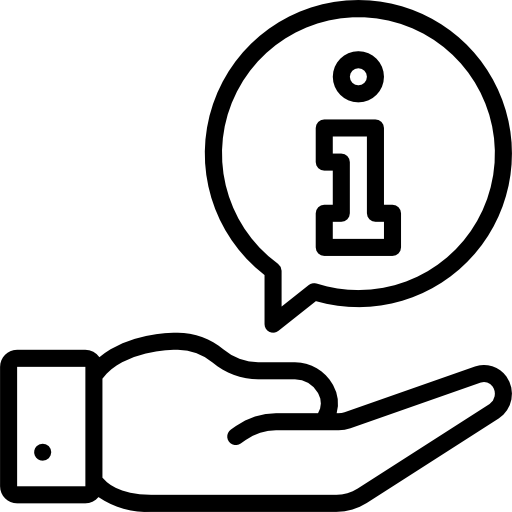
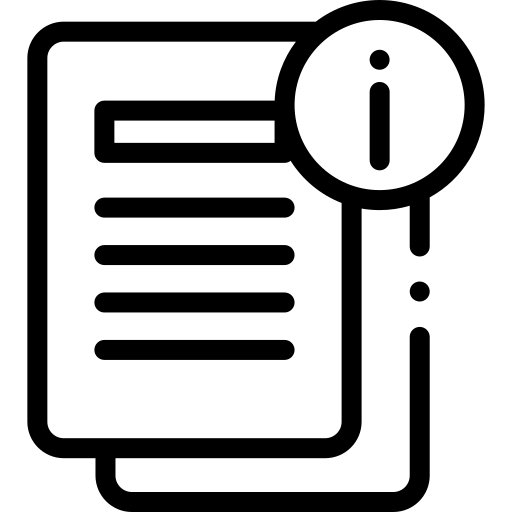
Added working client-user identifer

diff --git a/src/main/resources/templates/CLIENT-home.html b/src/main/resources/templates/CLIENT-home.html
@@ -25,8 +25,8 @@
             </div>
         </header>
         <div class="user-indicator-container">
-            <span class="user-indicator" th:text="'Welcome, ' + ${loggedInClient.name}"></span>
-        </div>
+            <span class="user-indicator" th:text="'Welcome, ' + ${loggedInClient.representativeName}"></span>
+        </div>        
         
         <div class="buttons-container">
             <a th:href="@{/CLIENT-guide}" class="overlap-3">

diff --git a/src/main/resources/static/css/CLIENT-home.css b/src/main/resources/static/css/CLIENT-home.css
@@ -21,7 +21,6 @@
   width: 100%;
   height: 150px;
   background-color: transparent;
-  box-shadow: 0px 5px 70px #0000004c;
 }
 
 .CLIENT-HOME .overlap-group {
@@ -206,6 +205,7 @@
   display: flex; 
   justify-content: flex-start; 
   align-items: center;
+  box-shadow: 0 2px 8px rgba(0, 0, 0, 0.2); 
 }
 
 

diff --git a/src/main/java/com/example/semiautomatedlims/Controller/ClientHomeController.java b/src/main/java/com/example/semiautomatedlims/Controller/ClientHomeController.java
@@ -5,21 +5,22 @@ import jakarta.servlet.http.HttpSession;
 import org.springframework.stereotype.Controller;
 import org.springframework.web.bind.annotation.GetMapping;
 import org.springframework.web.servlet.mvc.support.RedirectAttributes;
+import org.springframework.ui.Model;
 
 @Controller
 public class ClientHomeController {
 
     @GetMapping("/CLIENT-home")
-    public String clientHome(HttpSession session, RedirectAttributes redirectAttributes) {
+    public String clientHome(HttpSession session, RedirectAttributes redirectAttributes, Model model) {
         Client loggedInClient = (Client) session.getAttribute("loggedInClient");
 
         if (loggedInClient == null) {
-            // Redirect to login if no client is in session
             redirectAttributes.addFlashAttribute("error", "Please log in first.");
             return "redirect:/client-login";
         }
 
-        return "CLIENT-home";
+        model.addAttribute("loggedInClient", loggedInClient); // Pass the client object to the model
+        return "CLIENT-home"; // Return the CLIENT-home view
     }
 
     @GetMapping("/logout")
